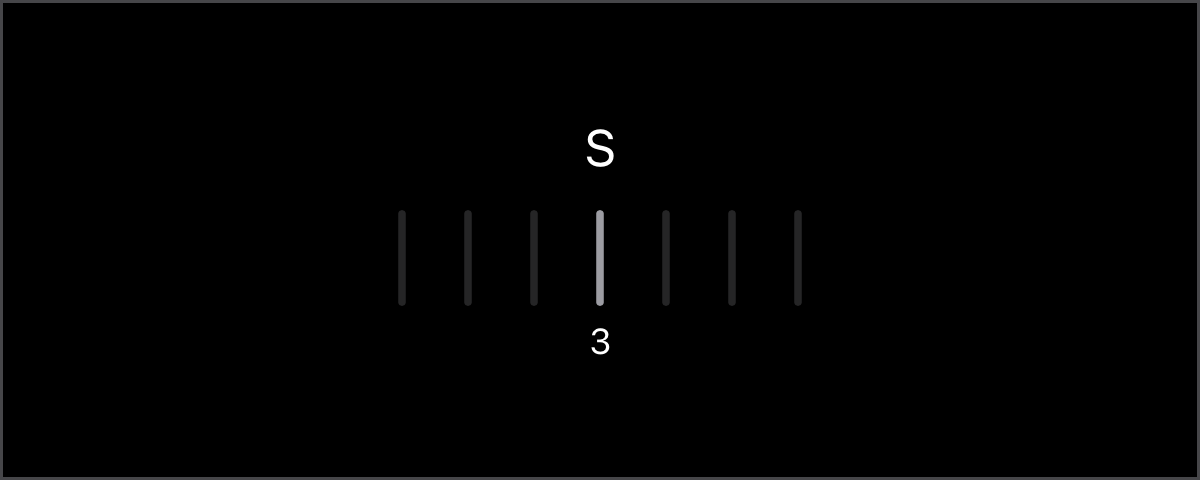
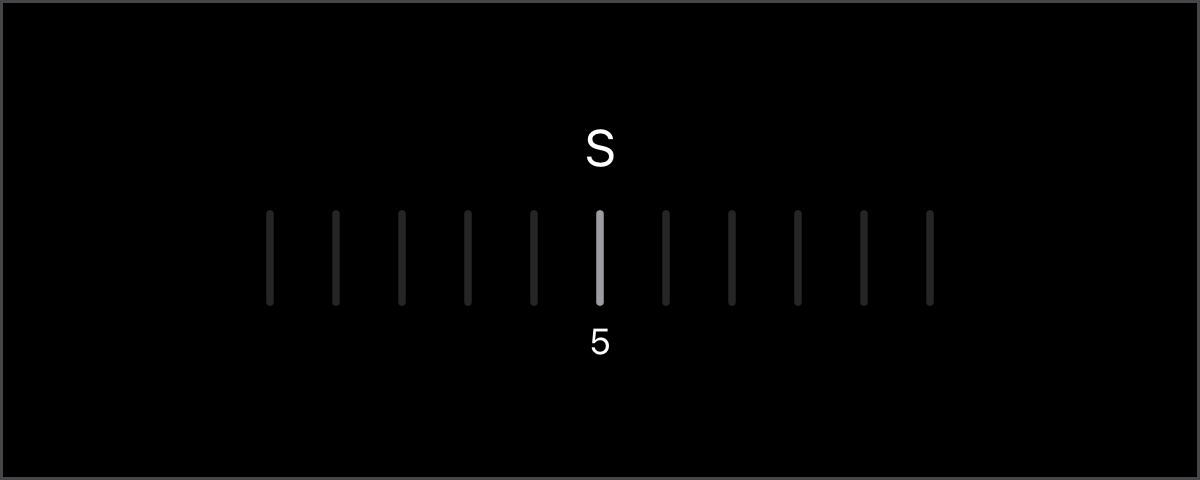
adjustments to the documentation illustrations

diff --git a/demo-app/illustrations/Illustrations.swift b/demo-app/illustrations/Illustrations.swift
@@ -33,7 +33,7 @@ import Testing
 
     struct StepCarouselWithDefaultMark: View {
         @State var position = StepCarouselPosition(
-            values: ["P", "Q", "R", "S", "T", "U", "V"],
+            values: ["N", "O", "P", "Q", "R", "S", "T", "U", "V", "W", "X"],
             selectedValue: "S"
         )
         var body: some View {
@@ -55,24 +55,52 @@ import Testing
     }
 
 
+    struct StepCarouselWithColors: View {
+        @State var position: StepCarouselPosition = .init(
+            values: [Color.red, .orange, .yellow, .green, .teal, .blue, .indigo, .purple, .brown],
+            selectedIndex: 4, markLength: 40, spacing: 8
+        )
+        var body: some View {
+            Text(position.selectedValue.description)
+            StepCarousel(position: $position) { index, value in
+                RoundedRectangle(cornerRadius: 8)
+                .fill(value.gradient)
+            }
+            .frame(height: 60)
+        }
+    }
+
+
+    @Test func withColors() throws {
+        try storage.renderAndStore("step-carousel", "with-colors", strategy: .windowHierarchy) {
+            DocumentationIllustration(sizing: .regular) {
+                StepCarouselWithColors()
+            }
+        }
+    }
+
+
     struct StepCarouselWithImages: View {
         @State var position: StepCarouselPosition = .init(
-            values: [
-                "moon", "flame", "bolt", "drop", "ladybug",
-                "cloud", "lizard", "leaf", "carrot"],
-            selectedIndex: 4,
-            markLength: 44,
-            spacing: 4
+            values: ["moon", "flame", "drop", "cloud", "ladybug", "leaf", "carrot"],
+            selectedValue: "cloud",
+            markLength: 44, // Determines the width of each mark.
+            spacing: 8
         )
         var body: some View {
             Text(position.selectedValue)
-            StepCarousel(position: $position) { index, element in
-                Image(systemName: element)
+            StepCarousel(position: $position) {
+                // Anchor Content
+                Image(systemName: "arrowtriangle.down.fill")
+                .foregroundStyle(.orange)
+                .frame(maxWidth: .infinity, maxHeight: .infinity, alignment: .top)
+            } markContent: { index, value in
+                Image(systemName: value)
                 .font(.title)
                 .frame(maxWidth: .infinity, maxHeight: .infinity)
-                .background(.gray.quinary, in: RoundedRectangle(cornerRadius: 4))
+                .background(.gray.tertiary, in: RoundedRectangle(cornerRadius: 4))
             }
-            .frame(height: 44)
+            .frame(height: 44) // Determines the height of the step carousel control.
         }
     }
 
